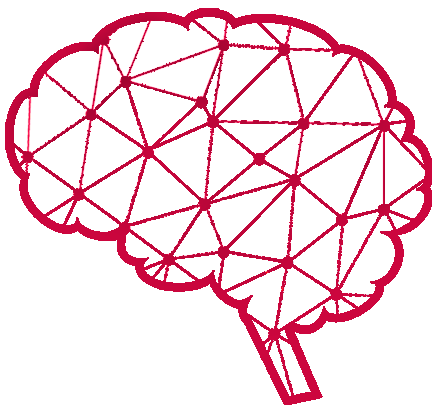
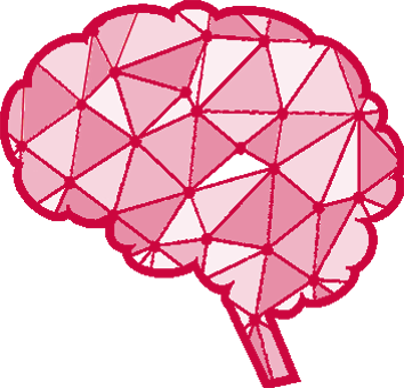
Home page and footer

diff --git a/templates/base.html b/templates/base.html
@@ -38,7 +38,7 @@
 <body>
 	<nav class="navbar fixed-top navbar-custom navbar-light shadow-sm navbar-expand-md">
 		<a class="navbar-brand" href="{% url 'profiles:home' %}">
-			<img src="{% static 'images/logo_white_bg.png' %}" height="38px">
+			<img src="{% static 'images/logo_fill_triangles_wb.png' %}" height="38px">
 		</a>
 		<div class="collapse navbar-collapse" id="navbarNavAltMarkup">
 			<ul class="nav navbar-nav ml-auto">
@@ -82,29 +82,18 @@
 		<div class="d-flex flex-wrap justify-content-center">
 			<ul class="list-unstyled list-inline">
 				<li class="list-inline-item">
-					<a class="btn btn-lg mx-1">
+					<a class="btn btn-lg mx-1" href="https://www.facebook.com/groups/1625186694223753/">
 						<i class="fab fa-facebook-f"></i>
 					</a>
 				</li>
 				<li class="list-inline-item">
-					<a class="btn btn-lg mx-1">
+					<a class="btn btn-lg mx-1" href="https://twitter.com/search?q=%23WomenInNeuroscienceRepo&src=typd">
 						<i class="fab fa-twitter"></i>
 					</a>
 				</li>
-				<li class="list-inline-item">
-					<a class="btn btn-lg mx-1">
-						<i class="fab fa-google-plus"></i>
-					</a>
-				</li>
-				<li class="list-inline-item">
-					<a class="btn btn-lg mx-1">
-						<i class="fab fa-linkedin-in"></i>
-					</a>
-				</li>
 			</ul>
-			<span class="w-100 text-center"><b>Contact us</b></span>
-			<span class="w-100 text-center">Women in Neuroscience Repository</span>
-			<span class="w-100 text-center"><a href="mailto:[email redacted]">[email redacted]</a></span>
+			<span class="w-100 text-center"><b>Contact us:</b></span>
+			<span class="w-100 text-center"><a href="mailto:[email redacted]">Women in Neuroscience Repository</a></span>
 		</div>
 	</footer>
 	{% endblock footer %}

diff --git a/profiles/templates/profiles/home.html b/profiles/templates/profiles/home.html
@@ -78,12 +78,12 @@
 {% endblock page_container %}
 
 {% block full_page_content %}
-<div class="container-fluid p-0" id="hero-image">
-	<img src="{% static 'profiles/images/banner2.png' %}" class="img-fluid w-100" alt="Responsive image">
+<div class="container-fluid p-0">
+	<img src="{% static 'profiles/images/banner2.png' %}" class="img-fluid"  id="hero-image" alt="Responsive image">
 </div>
 <div class="container-fluid" id="home-search">
 	<div class="input-group bg-white rounded p-1 mx-auto">
-		<input type="text" id="search-input" class="form-control" placeholder="Search here..." aria-label="Search">
+		<input type="text" id="search-input" class="form-control" placeholder="Enter search keywords here..." aria-label="Search">
 		<button type="submit" id="search-btn" class="btn btn-secondary pl-4 pr-4">Search</button>
 	</div>
 </div>
@@ -183,7 +183,7 @@
 			<p class="text-dark text-justify">Download our slide and insert it at the end of your presentation!
 				It will raise awareness on the issue of gender equity in neuroscience and show that there are resources to
 				help conference organizers. In addition, it will encourage senior researchers to submit recommendations of their peers.</p>
-			<a href="{% static 'images/slide.pptx' %}" class="btn pill-btn slide-btn text-white btn-secondary" download="WinRepo_Slide">Download slide</a>
+			<a href="{% static 'images/slide.pdf' %}" class="btn pill-btn slide-btn text-white btn-secondary" download="WinRepo_Slide">Download slide</a>
 		</div>
 	</div>
 </div>

diff --git a/profiles/static/profiles/css/home.css b/profiles/static/profiles/css/home.css
@@ -2,6 +2,10 @@
 	font-size: 16px;
 }
 
+#hero-image {
+		min-height: 200px;
+}
+
 #home-search {
 	height: 0;
 }